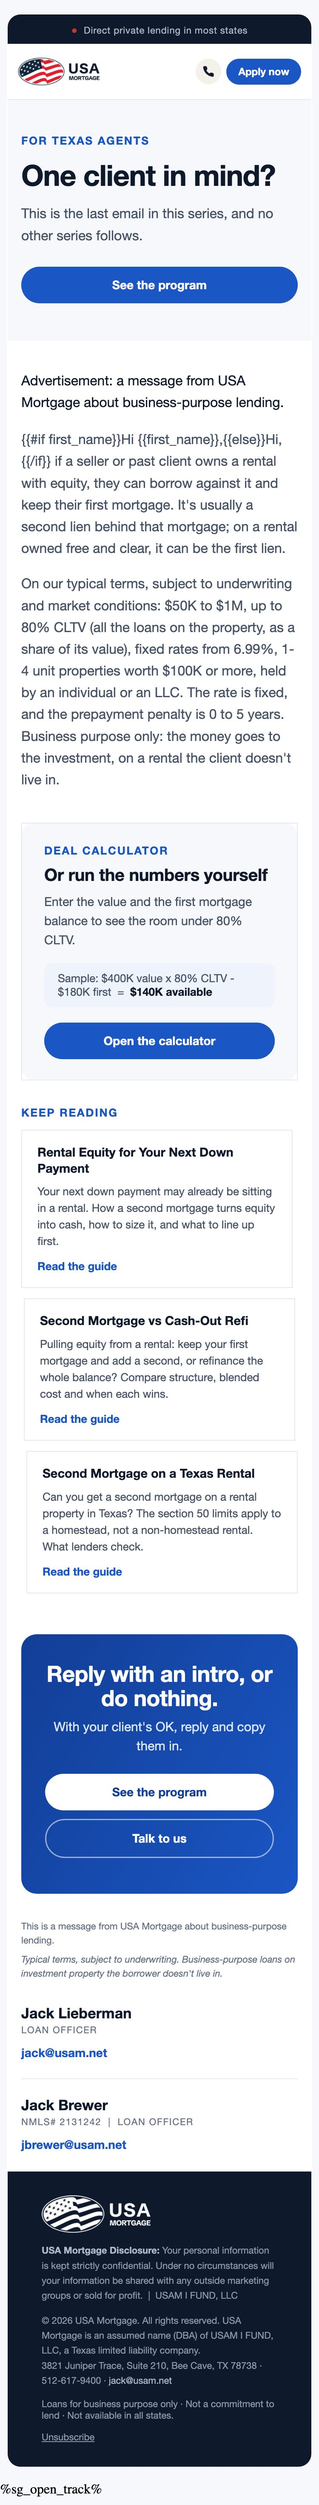
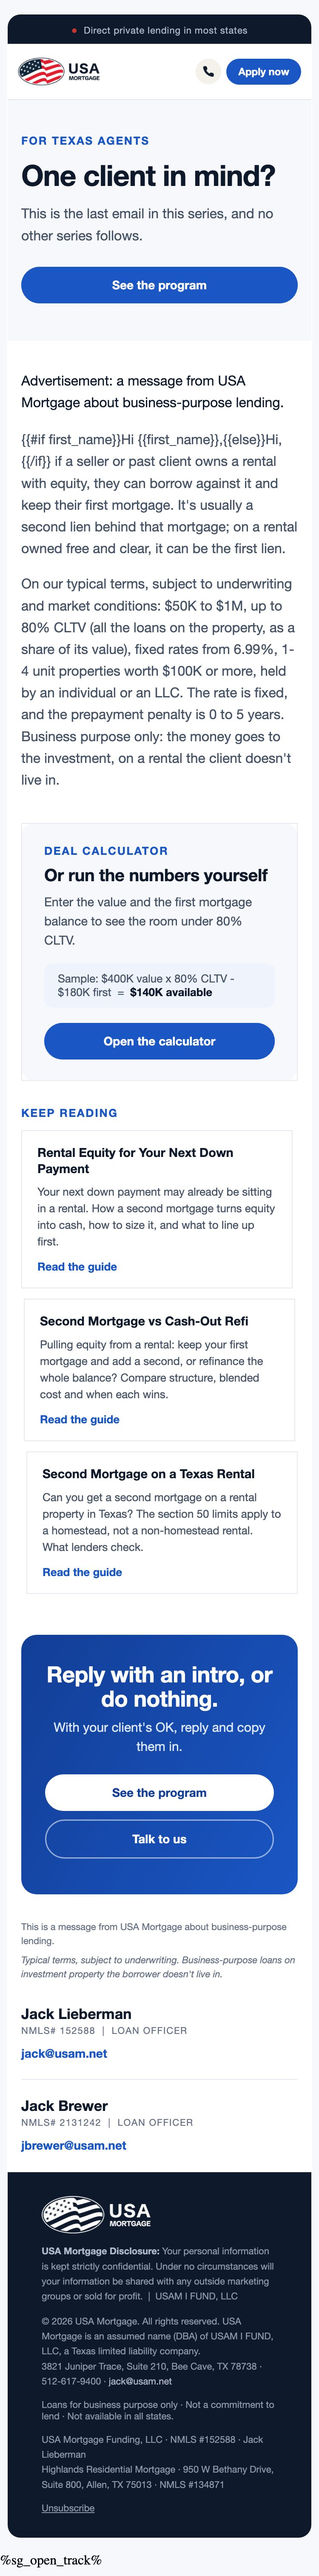
Add Jack Lieberman's NMLS and the site license lines to the Texas drip
Signature shows NMLS# 152588 under Jack Lieberman; the footer carries
the same license block as usam.net (USA Mortgage Funding, LLC NMLS
#152588; Highlands Residential Mortgage NMLS #134871). Screenshots
regenerated at 375px; flow page open item updated.

diff --git a/Texas Realtor Drip/s1-next-down-payment.html b/Texas Realtor Drip/s1-next-down-payment.html
@@ -259,7 +259,7 @@
               <tr>
                 <td class="usam-stack usam-sig-a" width="50%" valign="top" style="padding:0 20px 0 0;">
                   <div style="font-family:'Schibsted Grotesk','Helvetica Neue',Arial,sans-serif; font-weight:700; font-size:17px; color:#0E1A2B;">Jack Lieberman</div>
-                  <div style="font-family:'Hanken Grotesk','Helvetica Neue',Arial,sans-serif; font-size:11px; letter-spacing:0.08em; text-transform:uppercase; color:#667085; margin:3px 0 8px;">Loan Officer</div>
+                  <div style="font-family:'Hanken Grotesk','Helvetica Neue',Arial,sans-serif; font-size:11px; letter-spacing:0.08em; text-transform:uppercase; color:#667085; margin:3px 0 8px;">NMLS# 152588 &nbsp;|&nbsp; Loan Officer</div>
                   <div style="font-family:'Hanken Grotesk','Helvetica Neue',Arial,sans-serif; font-size:14px; color:#475467; line-height:1.7;">
                     <a class="usam-link" href="mailto:jack@usam.net" target="_blank" rel="noopener noreferrer" style="color:#1A56C4; font-weight:600;">jack@usam.net</a>
                   </div>
@@ -288,6 +288,7 @@
               &copy; 2026 USA Mortgage. All rights reserved. USA Mortgage is an assumed name (DBA) of USAM I FUND, LLC, a Texas limited liability company.<br>3821 Juniper Trace, Suite 210, Bee Cave, TX 78738 &middot; 512-617-9400 &middot; <a class="usam-link" href="mailto:jack@usam.net" target="_blank" rel="noopener noreferrer" style="color:#AEB9C9;">jack@usam.net</a>
             </p>
             <p style="margin:0 0 12px; font-family:'Hanken Grotesk','Helvetica Neue',Arial,sans-serif; font-size:11px; color:#8A97A8;">Loans for business purpose only &middot; Not a commitment to lend &middot; Not available in all states.</p>
+            <p style="margin:0 0 12px; font-family:'Hanken Grotesk','Helvetica Neue',Arial,sans-serif; font-size:11px; line-height:1.6; color:#8A97A8;">USA Mortgage Funding, LLC &middot; NMLS #152588 &middot; Jack Lieberman<br>Highlands Residential Mortgage &middot; 950 W Bethany Drive, Suite 800, Allen, TX 75013 &middot; NMLS #134871</p>
             <p style="margin:0; font-family:'Hanken Grotesk','Helvetica Neue',Arial,sans-serif; font-size:11px; color:#8A97A8;">
               <a href="{{{unsubscribe}}}" style="color:#8A97A8; text-decoration:underline;">Unsubscribe</a>
             </p>

diff --git a/Texas Realtor Drip/s2-before-the-offer.html b/Texas Realtor Drip/s2-before-the-offer.html
@@ -258,7 +258,7 @@
               <tr>
                 <td class="usam-stack usam-sig-a" width="50%" valign="top" style="padding:0 20px 0 0;">
                   <div style="font-family:'Schibsted Grotesk','Helvetica Neue',Arial,sans-serif; font-weight:700; font-size:17px; color:#0E1A2B;">Jack Lieberman</div>
-                  <div style="font-family:'Hanken Grotesk','Helvetica Neue',Arial,sans-serif; font-size:11px; letter-spacing:0.08em; text-transform:uppercase; color:#667085; margin:3px 0 8px;">Loan Officer</div>
+                  <div style="font-family:'Hanken Grotesk','Helvetica Neue',Arial,sans-serif; font-size:11px; letter-spacing:0.08em; text-transform:uppercase; color:#667085; margin:3px 0 8px;">NMLS# 152588 &nbsp;|&nbsp; Loan Officer</div>
                   <div style="font-family:'Hanken Grotesk','Helvetica Neue',Arial,sans-serif; font-size:14px; color:#475467; line-height:1.7;">
                     <a class="usam-link" href="mailto:jack@usam.net" target="_blank" rel="noopener noreferrer" style="color:#1A56C4; font-weight:600;">jack@usam.net</a>
                   </div>
@@ -287,6 +287,7 @@
               &copy; 2026 USA Mortgage. All rights reserved. USA Mortgage is an assumed name (DBA) of USAM I FUND, LLC, a Texas limited liability company.<br>3821 Juniper Trace, Suite 210, Bee Cave, TX 78738 &middot; 512-617-9400 &middot; <a class="usam-link" href="mailto:jack@usam.net" target="_blank" rel="noopener noreferrer" style="color:#AEB9C9;">jack@usam.net</a>
             </p>
             <p style="margin:0 0 12px; font-family:'Hanken Grotesk','Helvetica Neue',Arial,sans-serif; font-size:11px; color:#8A97A8;">Loans for business purpose only &middot; Not a commitment to lend &middot; Not available in all states.</p>
+            <p style="margin:0 0 12px; font-family:'Hanken Grotesk','Helvetica Neue',Arial,sans-serif; font-size:11px; line-height:1.6; color:#8A97A8;">USA Mortgage Funding, LLC &middot; NMLS #152588 &middot; Jack Lieberman<br>Highlands Residential Mortgage &middot; 950 W Bethany Drive, Suite 800, Allen, TX 75013 &middot; NMLS #134871</p>
             <p style="margin:0; font-family:'Hanken Grotesk','Helvetica Neue',Arial,sans-serif; font-size:11px; color:#8A97A8;">
               <a href="{{{unsubscribe}}}" style="color:#8A97A8; text-decoration:underline;">Unsubscribe</a>
             </p>

diff --git a/Texas Realtor Drip/s3-keep-the-first.html b/Texas Realtor Drip/s3-keep-the-first.html
@@ -280,7 +280,7 @@
               <tr>
                 <td class="usam-stack usam-sig-a" width="50%" valign="top" style="padding:0 20px 0 0;">
                   <div style="font-family:'Schibsted Grotesk','Helvetica Neue',Arial,sans-serif; font-weight:700; font-size:17px; color:#0E1A2B;">Jack Lieberman</div>
-                  <div style="font-family:'Hanken Grotesk','Helvetica Neue',Arial,sans-serif; font-size:11px; letter-spacing:0.08em; text-transform:uppercase; color:#667085; margin:3px 0 8px;">Loan Officer</div>
+                  <div style="font-family:'Hanken Grotesk','Helvetica Neue',Arial,sans-serif; font-size:11px; letter-spacing:0.08em; text-transform:uppercase; color:#667085; margin:3px 0 8px;">NMLS# 152588 &nbsp;|&nbsp; Loan Officer</div>
                   <div style="font-family:'Hanken Grotesk','Helvetica Neue',Arial,sans-serif; font-size:14px; color:#475467; line-height:1.7;">
                     <a class="usam-link" href="mailto:jack@usam.net" target="_blank" rel="noopener noreferrer" style="color:#1A56C4; font-weight:600;">jack@usam.net</a>
                   </div>
@@ -309,6 +309,7 @@
               &copy; 2026 USA Mortgage. All rights reserved. USA Mortgage is an assumed name (DBA) of USAM I FUND, LLC, a Texas limited liability company.<br>3821 Juniper Trace, Suite 210, Bee Cave, TX 78738 &middot; 512-617-9400 &middot; <a class="usam-link" href="mailto:jack@usam.net" target="_blank" rel="noopener noreferrer" style="color:#AEB9C9;">jack@usam.net</a>
             </p>
             <p style="margin:0 0 12px; font-family:'Hanken Grotesk','Helvetica Neue',Arial,sans-serif; font-size:11px; color:#8A97A8;">Loans for business purpose only &middot; Not a commitment to lend &middot; Not available in all states.</p>
+            <p style="margin:0 0 12px; font-family:'Hanken Grotesk','Helvetica Neue',Arial,sans-serif; font-size:11px; line-height:1.6; color:#8A97A8;">USA Mortgage Funding, LLC &middot; NMLS #152588 &middot; Jack Lieberman<br>Highlands Residential Mortgage &middot; 950 W Bethany Drive, Suite 800, Allen, TX 75013 &middot; NMLS #134871</p>
             <p style="margin:0; font-family:'Hanken Grotesk','Helvetica Neue',Arial,sans-serif; font-size:11px; color:#8A97A8;">
               <a href="{{{unsubscribe}}}" style="color:#8A97A8; text-decoration:underline;">Unsubscribe</a>
             </p>

diff --git a/Texas Realtor Drip/s4-what-happens-after-an-intro.html b/Texas Realtor Drip/s4-what-happens-after-an-intro.html
@@ -258,7 +258,7 @@
               <tr>
                 <td class="usam-stack usam-sig-a" width="50%" valign="top" style="padding:0 20px 0 0;">
                   <div style="font-family:'Schibsted Grotesk','Helvetica Neue',Arial,sans-serif; font-weight:700; font-size:17px; color:#0E1A2B;">Jack Lieberman</div>
-                  <div style="font-family:'Hanken Grotesk','Helvetica Neue',Arial,sans-serif; font-size:11px; letter-spacing:0.08em; text-transform:uppercase; color:#667085; margin:3px 0 8px;">Loan Officer</div>
+                  <div style="font-family:'Hanken Grotesk','Helvetica Neue',Arial,sans-serif; font-size:11px; letter-spacing:0.08em; text-transform:uppercase; color:#667085; margin:3px 0 8px;">NMLS# 152588 &nbsp;|&nbsp; Loan Officer</div>
                   <div style="font-family:'Hanken Grotesk','Helvetica Neue',Arial,sans-serif; font-size:14px; color:#475467; line-height:1.7;">
                     <a class="usam-link" href="mailto:jack@usam.net" target="_blank" rel="noopener noreferrer" style="color:#1A56C4; font-weight:600;">jack@usam.net</a>
                   </div>
@@ -287,6 +287,7 @@
               &copy; 2026 USA Mortgage. All rights reserved. USA Mortgage is an assumed name (DBA) of USAM I FUND, LLC, a Texas limited liability company.<br>3821 Juniper Trace, Suite 210, Bee Cave, TX 78738 &middot; 512-617-9400 &middot; <a class="usam-link" href="mailto:jack@usam.net" target="_blank" rel="noopener noreferrer" style="color:#AEB9C9;">jack@usam.net</a>
             </p>
             <p style="margin:0 0 12px; font-family:'Hanken Grotesk','Helvetica Neue',Arial,sans-serif; font-size:11px; color:#8A97A8;">Loans for business purpose only &middot; Not a commitment to lend &middot; Not available in all states.</p>
+            <p style="margin:0 0 12px; font-family:'Hanken Grotesk','Helvetica Neue',Arial,sans-serif; font-size:11px; line-height:1.6; color:#8A97A8;">USA Mortgage Funding, LLC &middot; NMLS #152588 &middot; Jack Lieberman<br>Highlands Residential Mortgage &middot; 950 W Bethany Drive, Suite 800, Allen, TX 75013 &middot; NMLS #134871</p>
             <p style="margin:0; font-family:'Hanken Grotesk','Helvetica Neue',Arial,sans-serif; font-size:11px; color:#8A97A8;">
               <a href="{{{unsubscribe}}}" style="color:#8A97A8; text-decoration:underline;">Unsubscribe</a>
             </p>

diff --git a/Texas Realtor Drip/s5-texas-checks.html b/Texas Realtor Drip/s5-texas-checks.html
@@ -261,7 +261,7 @@
               <tr>
                 <td class="usam-stack usam-sig-a" width="50%" valign="top" style="padding:0 20px 0 0;">
                   <div style="font-family:'Schibsted Grotesk','Helvetica Neue',Arial,sans-serif; font-weight:700; font-size:17px; color:#0E1A2B;">Jack Lieberman</div>
-                  <div style="font-family:'Hanken Grotesk','Helvetica Neue',Arial,sans-serif; font-size:11px; letter-spacing:0.08em; text-transform:uppercase; color:#667085; margin:3px 0 8px;">Loan Officer</div>
+                  <div style="font-family:'Hanken Grotesk','Helvetica Neue',Arial,sans-serif; font-size:11px; letter-spacing:0.08em; text-transform:uppercase; color:#667085; margin:3px 0 8px;">NMLS# 152588 &nbsp;|&nbsp; Loan Officer</div>
                   <div style="font-family:'Hanken Grotesk','Helvetica Neue',Arial,sans-serif; font-size:14px; color:#475467; line-height:1.7;">
                     <a class="usam-link" href="mailto:jack@usam.net" target="_blank" rel="noopener noreferrer" style="color:#1A56C4; font-weight:600;">jack@usam.net</a>
                   </div>
@@ -290,6 +290,7 @@
               &copy; 2026 USA Mortgage. All rights reserved. USA Mortgage is an assumed name (DBA) of USAM I FUND, LLC, a Texas limited liability company.<br>3821 Juniper Trace, Suite 210, Bee Cave, TX 78738 &middot; 512-617-9400 &middot; <a class="usam-link" href="mailto:jack@usam.net" target="_blank" rel="noopener noreferrer" style="color:#AEB9C9;">jack@usam.net</a>
             </p>
             <p style="margin:0 0 12px; font-family:'Hanken Grotesk','Helvetica Neue',Arial,sans-serif; font-size:11px; color:#8A97A8;">Loans for business purpose only &middot; Not a commitment to lend &middot; Not available in all states.</p>
+            <p style="margin:0 0 12px; font-family:'Hanken Grotesk','Helvetica Neue',Arial,sans-serif; font-size:11px; line-height:1.6; color:#8A97A8;">USA Mortgage Funding, LLC &middot; NMLS #152588 &middot; Jack Lieberman<br>Highlands Residential Mortgage &middot; 950 W Bethany Drive, Suite 800, Allen, TX 75013 &middot; NMLS #134871</p>
             <p style="margin:0; font-family:'Hanken Grotesk','Helvetica Neue',Arial,sans-serif; font-size:11px; color:#8A97A8;">
               <a href="{{{unsubscribe}}}" style="color:#8A97A8; text-decoration:underline;">Unsubscribe</a>
             </p>

diff --git a/Texas Realtor Drip/s5b-texas-checks-austin.html b/Texas Realtor Drip/s5b-texas-checks-austin.html
@@ -262,7 +262,7 @@
               <tr>
                 <td class="usam-stack usam-sig-a" width="50%" valign="top" style="padding:0 20px 0 0;">
                   <div style="font-family:'Schibsted Grotesk','Helvetica Neue',Arial,sans-serif; font-weight:700; font-size:17px; color:#0E1A2B;">Jack Lieberman</div>
-                  <div style="font-family:'Hanken Grotesk','Helvetica Neue',Arial,sans-serif; font-size:11px; letter-spacing:0.08em; text-transform:uppercase; color:#667085; margin:3px 0 8px;">Loan Officer</div>
+                  <div style="font-family:'Hanken Grotesk','Helvetica Neue',Arial,sans-serif; font-size:11px; letter-spacing:0.08em; text-transform:uppercase; color:#667085; margin:3px 0 8px;">NMLS# 152588 &nbsp;|&nbsp; Loan Officer</div>
                   <div style="font-family:'Hanken Grotesk','Helvetica Neue',Arial,sans-serif; font-size:14px; color:#475467; line-height:1.7;">
                     <a class="usam-link" href="mailto:jack@usam.net" target="_blank" rel="noopener noreferrer" style="color:#1A56C4; font-weight:600;">jack@usam.net</a>
                   </div>
@@ -291,6 +291,7 @@
               &copy; 2026 USA Mortgage. All rights reserved. USA Mortgage is an assumed name (DBA) of USAM I FUND, LLC, a Texas limited liability company.<br>3821 Juniper Trace, Suite 210, Bee Cave, TX 78738 &middot; 512-617-9400 &middot; <a class="usam-link" href="mailto:jack@usam.net" target="_blank" rel="noopener noreferrer" style="color:#AEB9C9;">jack@usam.net</a>
             </p>
             <p style="margin:0 0 12px; font-family:'Hanken Grotesk','Helvetica Neue',Arial,sans-serif; font-size:11px; color:#8A97A8;">Loans for business purpose only &middot; Not a commitment to lend &middot; Not available in all states.</p>
+            <p style="margin:0 0 12px; font-family:'Hanken Grotesk','Helvetica Neue',Arial,sans-serif; font-size:11px; line-height:1.6; color:#8A97A8;">USA Mortgage Funding, LLC &middot; NMLS #152588 &middot; Jack Lieberman<br>Highlands Residential Mortgage &middot; 950 W Bethany Drive, Suite 800, Allen, TX 75013 &middot; NMLS #134871</p>
             <p style="margin:0; font-family:'Hanken Grotesk','Helvetica Neue',Arial,sans-serif; font-size:11px; color:#8A97A8;">
               <a href="{{{unsubscribe}}}" style="color:#8A97A8; text-decoration:underline;">Unsubscribe</a>
             </p>

diff --git a/Texas Realtor Drip/s5c-texas-checks-houston.html b/Texas Realtor Drip/s5c-texas-checks-houston.html
@@ -262,7 +262,7 @@
               <tr>
                 <td class="usam-stack usam-sig-a" width="50%" valign="top" style="padding:0 20px 0 0;">
                   <div style="font-family:'Schibsted Grotesk','Helvetica Neue',Arial,sans-serif; font-weight:700; font-size:17px; color:#0E1A2B;">Jack Lieberman</div>
-                  <div style="font-family:'Hanken Grotesk','Helvetica Neue',Arial,sans-serif; font-size:11px; letter-spacing:0.08em; text-transform:uppercase; color:#667085; margin:3px 0 8px;">Loan Officer</div>
+                  <div style="font-family:'Hanken Grotesk','Helvetica Neue',Arial,sans-serif; font-size:11px; letter-spacing:0.08em; text-transform:uppercase; color:#667085; margin:3px 0 8px;">NMLS# 152588 &nbsp;|&nbsp; Loan Officer</div>
                   <div style="font-family:'Hanken Grotesk','Helvetica Neue',Arial,sans-serif; font-size:14px; color:#475467; line-height:1.7;">
                     <a class="usam-link" href="mailto:jack@usam.net" target="_blank" rel="noopener noreferrer" style="color:#1A56C4; font-weight:600;">jack@usam.net</a>
                   </div>
@@ -291,6 +291,7 @@
               &copy; 2026 USA Mortgage. All rights reserved. USA Mortgage is an assumed name (DBA) of USAM I FUND, LLC, a Texas limited liability company.<br>3821 Juniper Trace, Suite 210, Bee Cave, TX 78738 &middot; 512-617-9400 &middot; <a class="usam-link" href="mailto:jack@usam.net" target="_blank" rel="noopener noreferrer" style="color:#AEB9C9;">jack@usam.net</a>
             </p>
             <p style="margin:0 0 12px; font-family:'Hanken Grotesk','Helvetica Neue',Arial,sans-serif; font-size:11px; color:#8A97A8;">Loans for business purpose only &middot; Not a commitment to lend &middot; Not available in all states.</p>
+            <p style="margin:0 0 12px; font-family:'Hanken Grotesk','Helvetica Neue',Arial,sans-serif; font-size:11px; line-height:1.6; color:#8A97A8;">USA Mortgage Funding, LLC &middot; NMLS #152588 &middot; Jack Lieberman<br>Highlands Residential Mortgage &middot; 950 W Bethany Drive, Suite 800, Allen, TX 75013 &middot; NMLS #134871</p>
             <p style="margin:0; font-family:'Hanken Grotesk','Helvetica Neue',Arial,sans-serif; font-size:11px; color:#8A97A8;">
               <a href="{{{unsubscribe}}}" style="color:#8A97A8; text-decoration:underline;">Unsubscribe</a>
             </p>

diff --git a/Texas Realtor Drip/s5d-texas-checks-san-antonio.html b/Texas Realtor Drip/s5d-texas-checks-san-antonio.html
@@ -262,7 +262,7 @@
               <tr>
                 <td class="usam-stack usam-sig-a" width="50%" valign="top" style="padding:0 20px 0 0;">
                   <div style="font-family:'Schibsted Grotesk','Helvetica Neue',Arial,sans-serif; font-weight:700; font-size:17px; color:#0E1A2B;">Jack Lieberman</div>
-                  <div style="font-family:'Hanken Grotesk','Helvetica Neue',Arial,sans-serif; font-size:11px; letter-spacing:0.08em; text-transform:uppercase; color:#667085; margin:3px 0 8px;">Loan Officer</div>
+                  <div style="font-family:'Hanken Grotesk','Helvetica Neue',Arial,sans-serif; font-size:11px; letter-spacing:0.08em; text-transform:uppercase; color:#667085; margin:3px 0 8px;">NMLS# 152588 &nbsp;|&nbsp; Loan Officer</div>
                   <div style="font-family:'Hanken Grotesk','Helvetica Neue',Arial,sans-serif; font-size:14px; color:#475467; line-height:1.7;">
                     <a class="usam-link" href="mailto:jack@usam.net" target="_blank" rel="noopener noreferrer" style="color:#1A56C4; font-weight:600;">jack@usam.net</a>
                   </div>
@@ -291,6 +291,7 @@
               &copy; 2026 USA Mortgage. All rights reserved. USA Mortgage is an assumed name (DBA) of USAM I FUND, LLC, a Texas limited liability company.<br>3821 Juniper Trace, Suite 210, Bee Cave, TX 78738 &middot; 512-617-9400 &middot; <a class="usam-link" href="mailto:jack@usam.net" target="_blank" rel="noopener noreferrer" style="color:#AEB9C9;">jack@usam.net</a>
             </p>
             <p style="margin:0 0 12px; font-family:'Hanken Grotesk','Helvetica Neue',Arial,sans-serif; font-size:11px; color:#8A97A8;">Loans for business purpose only &middot; Not a commitment to lend &middot; Not available in all states.</p>
+            <p style="margin:0 0 12px; font-family:'Hanken Grotesk','Helvetica Neue',Arial,sans-serif; font-size:11px; line-height:1.6; color:#8A97A8;">USA Mortgage Funding, LLC &middot; NMLS #152588 &middot; Jack Lieberman<br>Highlands Residential Mortgage &middot; 950 W Bethany Drive, Suite 800, Allen, TX 75013 &middot; NMLS #134871</p>
             <p style="margin:0; font-family:'Hanken Grotesk','Helvetica Neue',Arial,sans-serif; font-size:11px; color:#8A97A8;">
               <a href="{{{unsubscribe}}}" style="color:#8A97A8; text-decoration:underline;">Unsubscribe</a>
             </p>

diff --git a/Texas Realtor Drip/s6-one-client-in-mind.html b/Texas Realtor Drip/s6-one-client-in-mind.html
@@ -257,7 +257,7 @@
               <tr>
                 <td class="usam-stack usam-sig-a" width="50%" valign="top" style="padding:0 20px 0 0;">
                   <div style="font-family:'Schibsted Grotesk','Helvetica Neue',Arial,sans-serif; font-weight:700; font-size:17px; color:#0E1A2B;">Jack Lieberman</div>
-                  <div style="font-family:'Hanken Grotesk','Helvetica Neue',Arial,sans-serif; font-size:11px; letter-spacing:0.08em; text-transform:uppercase; color:#667085; margin:3px 0 8px;">Loan Officer</div>
+                  <div style="font-family:'Hanken Grotesk','Helvetica Neue',Arial,sans-serif; font-size:11px; letter-spacing:0.08em; text-transform:uppercase; color:#667085; margin:3px 0 8px;">NMLS# 152588 &nbsp;|&nbsp; Loan Officer</div>
                   <div style="font-family:'Hanken Grotesk','Helvetica Neue',Arial,sans-serif; font-size:14px; color:#475467; line-height:1.7;">
                     <a class="usam-link" href="mailto:jack@usam.net" target="_blank" rel="noopener noreferrer" style="color:#1A56C4; font-weight:600;">jack@usam.net</a>
                   </div>
@@ -286,6 +286,7 @@
               &copy; 2026 USA Mortgage. All rights reserved. USA Mortgage is an assumed name (DBA) of USAM I FUND, LLC, a Texas limited liability company.<br>3821 Juniper Trace, Suite 210, Bee Cave, TX 78738 &middot; 512-617-9400 &middot; <a class="usam-link" href="mailto:jack@usam.net" target="_blank" rel="noopener noreferrer" style="color:#AEB9C9;">jack@usam.net</a>
             </p>
             <p style="margin:0 0 12px; font-family:'Hanken Grotesk','Helvetica Neue',Arial,sans-serif; font-size:11px; color:#8A97A8;">Loans for business purpose only &middot; Not a commitment to lend &middot; Not available in all states.</p>
+            <p style="margin:0 0 12px; font-family:'Hanken Grotesk','Helvetica Neue',Arial,sans-serif; font-size:11px; line-height:1.6; color:#8A97A8;">USA Mortgage Funding, LLC &middot; NMLS #152588 &middot; Jack Lieberman<br>Highlands Residential Mortgage &middot; 950 W Bethany Drive, Suite 800, Allen, TX 75013 &middot; NMLS #134871</p>
             <p style="margin:0; font-family:'Hanken Grotesk','Helvetica Neue',Arial,sans-serif; font-size:11px; color:#8A97A8;">
               <a href="{{{unsubscribe}}}" style="color:#8A97A8; text-decoration:underline;">Unsubscribe</a>
             </p>

diff --git a/Texas Realtor Drip/flow.html b/Texas Realtor Drip/flow.html
@@ -661,8 +661,10 @@
         <h3>Open before anything sends</h3>
         <ul>
           <li>
-            Who signs: Jack Lieberman has no NMLS number in the signature. All
-            four panelists raised it.
+            Who signs: since 2026-10-15 the signature reads NMLS# 152588 for Jack
+            Lieberman and the footer carries the usam.net license lines (USA
+            Mortgage Funding, LLC NMLS #152588; Highlands Residential Mortgage
+            NMLS #134871). Still to confirm with Jack that #152588 is his.
           </li>
           <li>
             Listing-only agents: resolved 2026-10-15, full series for everyone
